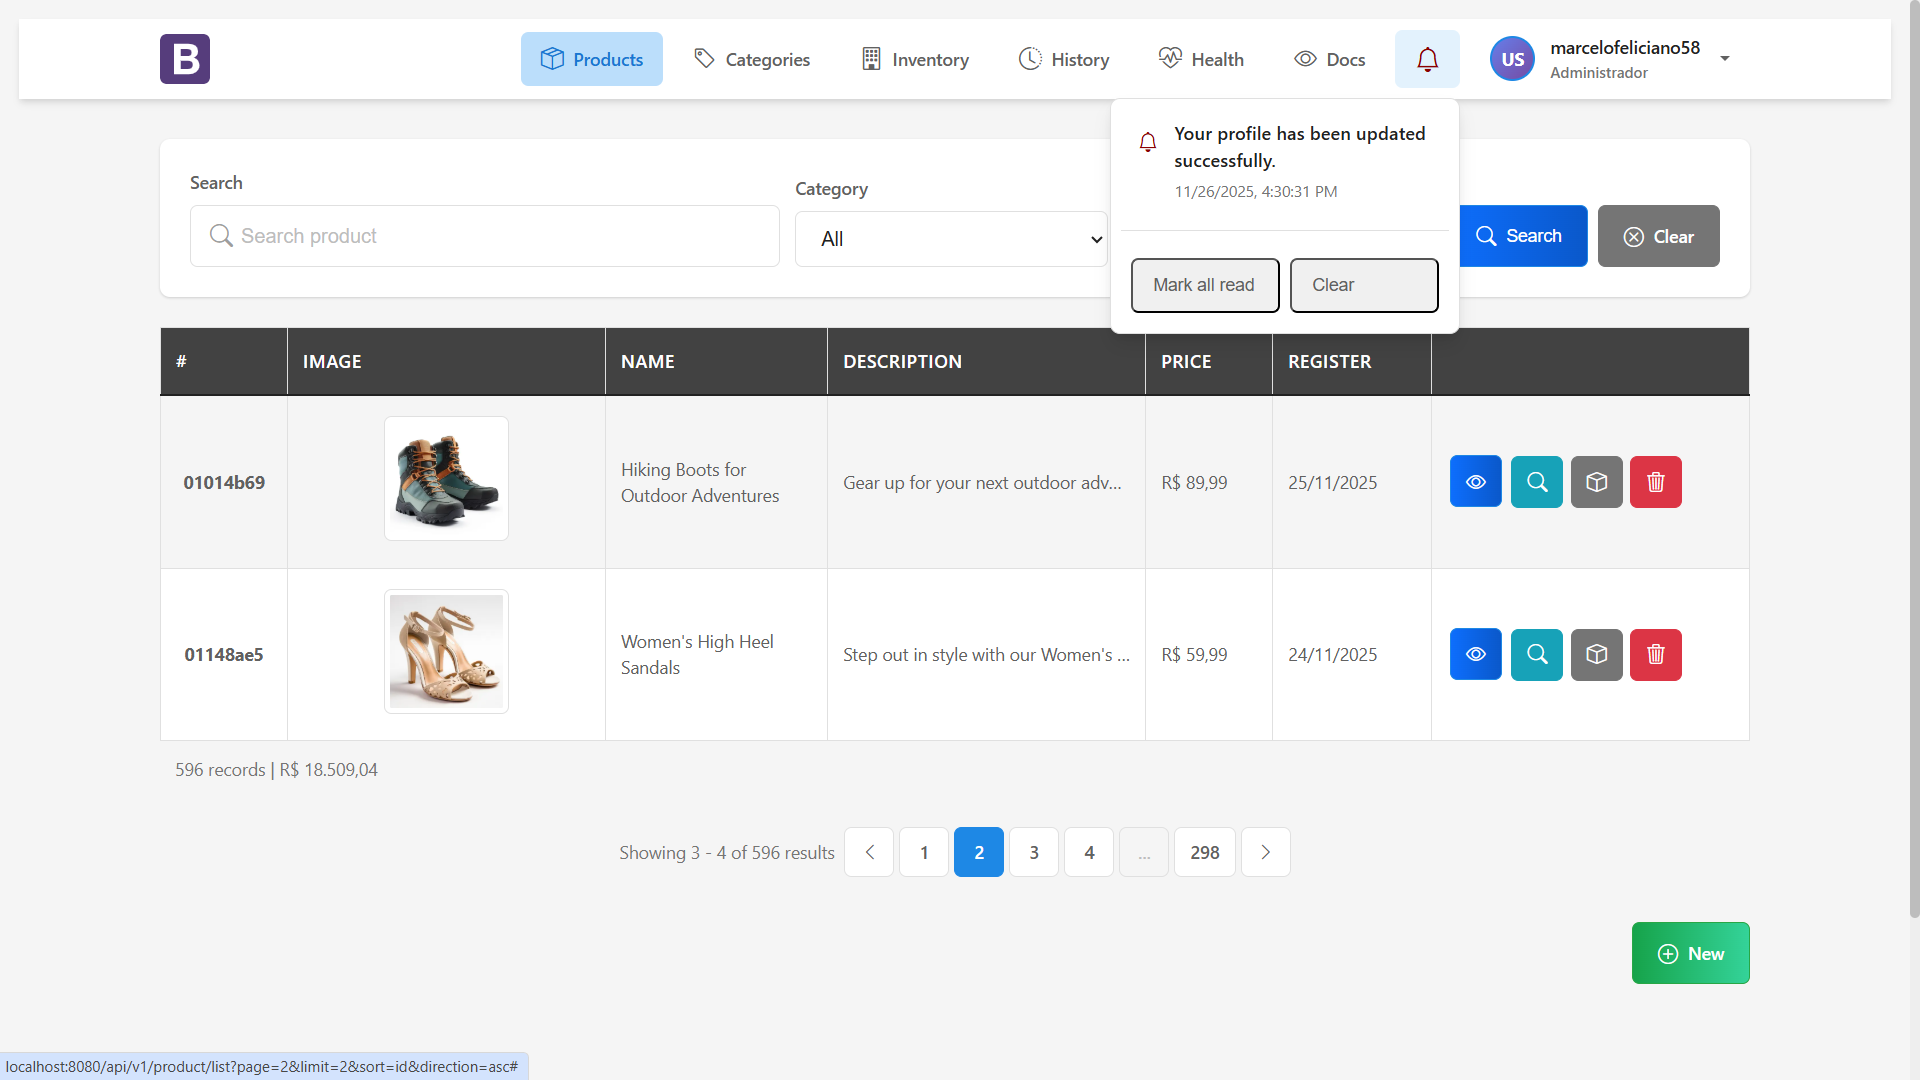
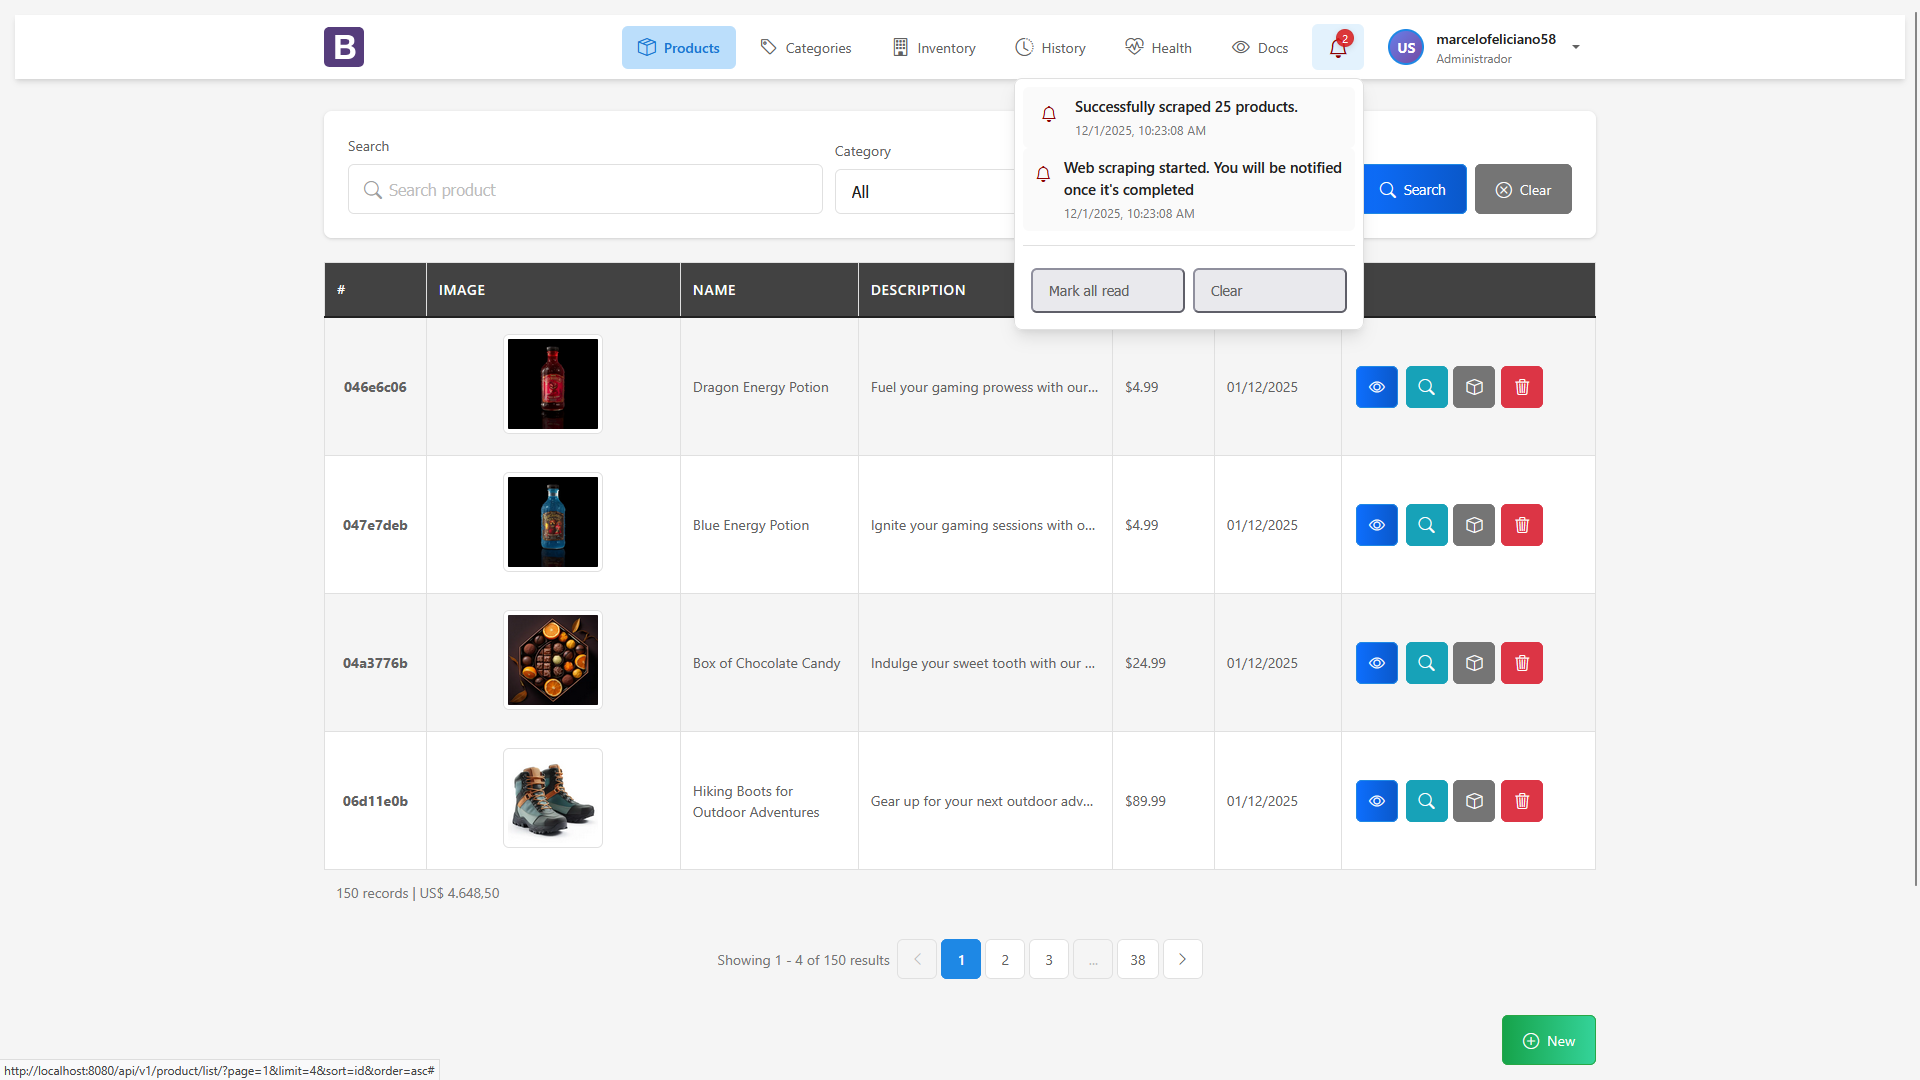
feat(product): update listing endpoint; enhance pagination and sorting

diff --git a/src/main/java/com/dev/servlet/web/controller/internal/ProductController.java b/src/main/java/com/dev/servlet/web/controller/internal/ProductController.java
@@ -1,11 +1,9 @@
 package com.dev.servlet.web.controller.internal;
 
-import com.dev.servlet.application.exception.ApplicationException;
 import com.dev.servlet.application.mapper.ProductMapper;
 import com.dev.servlet.application.port.in.category.ListCategoryUseCasePort;
 import com.dev.servlet.application.port.in.product.DeleteProductUseCasePort;
-import com.dev.servlet.application.port.in.product.ListProductUseCasePort;
-import com.dev.servlet.application.port.in.product.ProductCalculatePriceUseCasePort;
+import com.dev.servlet.application.port.in.product.ListProductContainerUseCasePort;
 import com.dev.servlet.application.port.in.product.ProductDetailUseCasePort;
 import com.dev.servlet.application.port.in.product.RegisterProductUseCasePort;
 import com.dev.servlet.application.port.in.product.ScrapeProductUseCasePort;
@@ -18,7 +16,6 @@ import com.dev.servlet.domain.entity.User;
 import com.dev.servlet.domain.valueobject.KeyPair;
 import com.dev.servlet.domain.valueobject.Query;
 import com.dev.servlet.infrastructure.persistence.transfer.IPageRequest;
-import com.dev.servlet.infrastructure.persistence.transfer.IPageable;
 import com.dev.servlet.web.controller.ProductControllerApi;
 import com.dev.servlet.web.controller.internal.base.BaseController;
 import com.dev.servlet.web.response.HttpResponse;
@@ -30,9 +27,7 @@ import lombok.NoArgsConstructor;
 import lombok.SneakyThrows;
 import lombok.extern.slf4j.Slf4j;
 
-import java.math.BigDecimal;
 import java.util.Collection;
-import java.util.HashSet;
 import java.util.Set;
 
 @Slf4j
@@ -41,8 +36,6 @@ import java.util.Set;
 public class ProductController extends BaseController implements ProductControllerApi {
     @Inject
     private ProductDetailUseCasePort productDetailUseCasePort;
-    @Inject
-    private ListProductUseCasePort listProductUseCasePort;
     @Inject
     private DeleteProductUseCasePort deleteProductUseCasePort;
     @Inject
@@ -54,7 +47,7 @@ public class ProductController extends BaseController implements ProductControll
     @Inject
     private ListCategoryUseCasePort listCategoryUseCasePort;
     @Inject
-    private ProductCalculatePriceUseCasePort productCalculatePriceUseCasePort;
+    private ListProductContainerUseCasePort listProductContainerUseCasePort;
     @Inject
     private ProductMapper productMapper;
 
@@ -85,13 +78,15 @@ public class ProductController extends BaseController implements ProductControll
     public IServletResponse search(Query query, IPageRequest pageRequest, String auth) {
         User user = authenticationPort.extractUser(auth);
         Product product = productMapper.queryToProduct(query, user);
-        return getServletResponse(pageRequest, auth, product);
+        Set<KeyPair> container = listProductContainerUseCasePort.assembleContainerResponse(pageRequest, auth, product);
+        return newServletResponse(container, forwardTo("listProducts"));
     }
 
     @SneakyThrows
     public IServletResponse list(IPageRequest pageRequest, String auth) {
         Product product = productMapper.toProduct(null, authenticationPort.extractUserId(auth));
-        return getServletResponse(pageRequest, auth, product);
+        Set<KeyPair> container = listProductContainerUseCasePort.assembleContainerResponse(pageRequest, auth, product);
+        return newServletResponse(container, forwardTo("listProducts"));
     }
 
     @SneakyThrows
@@ -116,21 +111,5 @@ public class ProductController extends BaseController implements ProductControll
     public IHttpResponse<Void> scrape(String auth, String environment, String url) {
         scrapeProductUseCasePort.scrapeAsync(url, environment, auth);
         return HttpResponse.<Void>next(redirectToCtx(LIST)).build();
-    }
-
-    private IServletResponse getServletResponse(IPageRequest pageRequest, String auth, Product product) throws ApplicationException {
-        pageRequest.setFilter(product);
-        IPageable<ProductResponse> page = listProductUseCasePort.getAllPageable(
-                pageRequest, productMapper::toResponseWithoutCategory);
-
-        BigDecimal price = productCalculatePriceUseCasePort.calculateTotalPriceFor(page, product);
-        Collection<CategoryResponse> categories = listCategoryUseCasePort.list(null, auth);
-        Set<KeyPair> container = new HashSet<>();
-
-        container.add(new KeyPair("pageable", page));
-        container.add(new KeyPair("totalPrice", price));
-        container.add(new KeyPair("categories", categories));
-
-        return newServletResponse(container, forwardTo("listProducts"));
     }
 }

diff --git a/src/main/java/com/dev/servlet/application/usecase/product/ListProductContainerUseCase.java b/src/main/java/com/dev/servlet/application/usecase/product/ListProductContainerUseCase.java
@@ -1,0 +1,53 @@
+package com.dev.servlet.application.usecase.product;
+
+import com.dev.servlet.application.exception.ApplicationException;
+import com.dev.servlet.application.mapper.ProductMapper;
+import com.dev.servlet.application.port.in.category.ListCategoryUseCasePort;
+import com.dev.servlet.application.port.in.product.ListProductContainerUseCasePort;
+import com.dev.servlet.application.port.in.product.ListProductUseCasePort;
+import com.dev.servlet.application.port.in.product.ProductCalculatePriceUseCasePort;
+import com.dev.servlet.application.transfer.response.CategoryResponse;
+import com.dev.servlet.application.transfer.response.ProductResponse;
+import com.dev.servlet.domain.entity.Product;
+import com.dev.servlet.domain.valueobject.KeyPair;
+import com.dev.servlet.infrastructure.persistence.transfer.IPageRequest;
+import com.dev.servlet.infrastructure.persistence.transfer.IPageable;
+import jakarta.enterprise.context.ApplicationScoped;
+import jakarta.inject.Inject;
+import lombok.NoArgsConstructor;
+import lombok.extern.slf4j.Slf4j;
+
+import java.math.BigDecimal;
+import java.util.Collection;
+import java.util.HashSet;
+import java.util.Set;
+
+@Slf4j
+@ApplicationScoped
+@NoArgsConstructor
+public class ListProductContainerUseCase implements ListProductContainerUseCasePort {
+
+    @Inject
+    private ListProductUseCasePort listProductUseCasePort;
+    @Inject
+    private ProductCalculatePriceUseCasePort productCalculatePriceUseCasePort;
+    @Inject
+    private ListCategoryUseCasePort listCategoryUseCasePort;
+    @Inject
+    private ProductMapper productMapper;
+
+    public Set<KeyPair> assembleContainerResponse(IPageRequest pageRequest, String auth, Product product) throws ApplicationException {
+        pageRequest.setFilter(product);
+        IPageable<ProductResponse> page = listProductUseCasePort.getAllPageable(
+                pageRequest, productMapper::toResponseWithoutCategory);
+
+        BigDecimal price = productCalculatePriceUseCasePort.calculateTotalPriceFor(page, product);
+        Collection<CategoryResponse> categories = listCategoryUseCasePort.list(null, auth);
+        Set<KeyPair> container = new HashSet<>();
+
+        container.add(new KeyPair("pageable", page));
+        container.add(new KeyPair("totalPrice", price));
+        container.add(new KeyPair("categories", categories));
+        return container;
+    }
+}

diff --git a/src/main/java/com/dev/servlet/application/usecase/user/UserDetailsUseCase.java b/src/main/java/com/dev/servlet/application/usecase/user/UserDetailsUseCase.java
@@ -3,10 +3,8 @@ package com.dev.servlet.application.usecase.user;
 import com.dev.servlet.application.exception.ApplicationException;
 import com.dev.servlet.application.mapper.UserMapper;
 import com.dev.servlet.application.port.in.user.UserDetailsUseCasePort;
-import com.dev.servlet.application.port.out.AuditPort;
 import com.dev.servlet.application.port.out.AuthenticationPort;
 import com.dev.servlet.application.transfer.response.UserResponse;
-import com.dev.servlet.infrastructure.audit.AuditPayload;
 import com.dev.servlet.infrastructure.cache.CacheUtils;
 import com.dev.servlet.infrastructure.persistence.repository.UserRepository;
 import jakarta.enterprise.context.ApplicationScoped;
@@ -28,8 +26,6 @@ public class UserDetailsUseCase implements UserDetailsUseCasePort {
     private UserMapper userMapper;
     @Inject
     private AuthenticationPort authenticationPort;
-    @Inject
-    private AuditPort auditPort;
 
     public UserResponse get(String userId, String auth) throws ApplicationException {
         log.debug("UserDetailsUseCase: getting user details with id {}", userId);
@@ -39,16 +35,12 @@ public class UserDetailsUseCase implements UserDetailsUseCasePort {
         }
 
         UserResponse response = CacheUtils.getObject(userId, CACHE_KEY);
-        if (response != null) {
-            auditPort.success("user:find_by_id", auth, new AuditPayload<>(userId, response));
-            return response;
-        }
+        if (response != null) return response;
 
         userRepository.findById(userId)
                 .ifPresent(u -> CacheUtils.setObject(userId, CACHE_KEY, userMapper.toResponse(u)));
 
         response = CacheUtils.getObject(userId, CACHE_KEY);
-        auditPort.success("user:find_by_id", auth, new AuditPayload<>(userId, response));
         return response;
     }
 }

diff --git a/src/main/java/com/dev/servlet/web/controller/internal/UserController.java b/src/main/java/com/dev/servlet/web/controller/internal/UserController.java
@@ -7,6 +7,7 @@ import com.dev.servlet.application.port.in.user.RegisterUserUseCasePort;
 import com.dev.servlet.application.port.in.user.ResendConfirmationUseCasePort;
 import com.dev.servlet.application.port.in.user.UpdateUserUseCasePort;
 import com.dev.servlet.application.port.in.user.UserDetailsUseCasePort;
+import com.dev.servlet.application.port.out.AuditPort;
 import com.dev.servlet.application.transfer.request.ConfirmEmailRequest;
 import com.dev.servlet.application.transfer.request.ResendConfirmationRequest;
 import com.dev.servlet.application.transfer.request.UserCreateRequest;
@@ -43,6 +44,8 @@ public class UserController extends BaseController implements UserControllerApi 
     private ResendConfirmationUseCasePort resendConfirmationUseCase;
     @Inject
     private UserDetailsUseCasePort userDetailsUseCase;
+    @Inject
+    private AuditPort auditPort;
 
     @SneakyThrows
     @Override
@@ -61,8 +64,14 @@ public class UserController extends BaseController implements UserControllerApi 
     @SneakyThrows
     @Override
     public IHttpResponse<UserResponse> findById(UserRequest user, String auth) {
-        UserResponse response = userDetailsUseCase.get(user.id(), auth);
-        return okHttpResponse(response, forwardTo("formListUser"));
+        try {
+            UserResponse response = userDetailsUseCase.get(user.id(), auth);
+            auditPort.success(response.getId(), auth, "User details accessed.");
+            return okHttpResponse(response, forwardTo("formListUser"));
+        } catch (Exception e) {
+            auditPort.failure(user.id(), auth, "Failed to access user details.");
+            throw e;
+        }
     }
 
     @SneakyThrows

diff --git a/src/main/java/com/dev/servlet/shared/util/URIUtils.java b/src/main/java/com/dev/servlet/shared/util/URIUtils.java
@@ -22,7 +22,7 @@ import java.util.stream.Collectors;
 @NoArgsConstructor(access = lombok.AccessLevel.PRIVATE)
 public final class URIUtils {
     private static final String DEFAULT_SORT_FIELD = "id";
-    private static final String DEFAULT_SORT_ORDER = "asc";
+    private static final String DEFAULT_SORT_ORDER = "desc";
     private static final int DEFAULT_MIN_PAGE_SIZE = 1;
     private static final int DEFAULT_INITIAL_PAGE = 1;
     private static final String PAGINATION_PAGE = "pagination.page";
@@ -97,7 +97,7 @@ public final class URIUtils {
         for (String param : query.split("&")) {
             String[] pair = param.split("=");
             if (pair.length == 2) {
-                queryParams.add(new KeyPair(pair[0], pair[DEFAULT_INITIAL_PAGE]));
+                queryParams.add(new KeyPair(pair[0], pair[1]));
             }
         }
         return queryParams;

diff --git a/src/main/java/com/dev/servlet/web/controller/internal/base/BaseController.java b/src/main/java/com/dev/servlet/web/controller/internal/base/BaseController.java
@@ -69,11 +69,6 @@ public abstract class BaseController extends BaseRouterController {
     protected IServletResponse newServletResponse(Set<KeyPair> response, String next) {
         return new IServletResponse() {
             @Override
-            public int statusCode() {
-                return 200;
-            }
-
-            @Override
             public Set<KeyPair> body() {
                 return response;
             }
@@ -81,11 +76,6 @@ public abstract class BaseController extends BaseRouterController {
             @Override
             public String next() {
                 return next;
-            }
-
-            @Override
-            public boolean json() {
-                return false;
             }
         };
     }

diff --git a/src/main/java/com/dev/servlet/web/response/IServletResponse.java b/src/main/java/com/dev/servlet/web/response/IServletResponse.java
@@ -17,6 +17,11 @@ public interface IServletResponse extends IHttpResponse<Set<KeyPair>> {
     }
 
     @Override
+    default int statusCode() {
+        return 200;
+    }
+
+    @Override
     default String error() {
         return null;
     }
@@ -24,5 +29,10 @@ public interface IServletResponse extends IHttpResponse<Set<KeyPair>> {
     @Override
     default String reasonText() {
         return null;
+    }
+
+    @Override
+    default boolean json() {
+        return false;
     }
 }

diff --git a/src/main/java/com/dev/servlet/application/port/in/product/ListProductContainerUseCasePort.java b/src/main/java/com/dev/servlet/application/port/in/product/ListProductContainerUseCasePort.java
@@ -1,0 +1,12 @@
+package com.dev.servlet.application.port.in.product;
+
+import com.dev.servlet.domain.entity.Product;
+import com.dev.servlet.domain.valueobject.KeyPair;
+import com.dev.servlet.infrastructure.persistence.transfer.IPageRequest;
+
+import java.util.Set;
+
+public interface ListProductContainerUseCasePort {
+
+    Set<KeyPair> assembleContainerResponse(IPageRequest pageRequest, String auth, Product product);
+}

diff --git a/README.md b/README.md
@@ -79,6 +79,19 @@ docker-compose -f docker-compose.demo.yml up -d
 
 Read the docker-compose file at `docker-compose.yml` to set up the PostgreSQL and ActiveMQ services.
 
+## Endpoints
+The application exposes some endpoints. Here are examples:
+- `POST /api/v1/auth/form` - Authenticate with username/password
+- `GET /api/v1/product/list` - List products
+- `POST /api/v1/health/live` - Liveness probe
+- `GET /api/v1/user/{id}` - Get user details
+
+The base URL is `http://localhost:8080` by default (local).
+
+Example of a complete url to list products: http://localhost:8080/api/v1/products
+
+If you want to see all available endpoints, check the Docs tab in the demo application UI or refer to the source code.
+
 ## License
 
 MIT — see the LICENSE file.
@@ -86,3 +99,12 @@ MIT — see the LICENSE file.
 ## Contributing
 
 Contributions are welcome. See CONTRIBUTING.md for guidelines.
+
+# Status Badges
+
+[//]: # ([![Build]&#40;https://github.com/m-feliciano/javaee-framework/actions/workflows/build.yml/badge.svg&#41;]&#40;...&#41;)
+[//]: # ([![Quality Gate]&#40;https://sonarcloud.io/api/project_badges/measure?project=m-feliciano_javaee-framework&metric=alert_status&#41;]&#40;...&#41;)
+![Java](https://img.shields.io/badge/Java-21-blue)
+![License](https://img.shields.io/badge/license-MIT-green)
+![Docker Pulls](https://img.shields.io/docker/pulls/mfeliciano1/servlets-app)
+[![Last Commit](https://img.shields.io/github/last-commit/m-feliciano/javaee-framework)](...)

diff --git a/README.pt-br.md b/README.pt-br.md
@@ -53,6 +53,20 @@ Clique [aqui](PREVIEW.md) para ver mais.
 
 Veja o README.md
 
+## Endpoints
+
+O framework expõe alguns endpoints. Aqui estão exemplos:
+- `POST /api/v1/auth/form` - Autenticar com usuário/senha
+- `GET /api/v1/product/list` - Listar produtos
+- `POST /api/v1/health/live` - Liveness probe
+- `GET /api/v1/user/{id}` - Obter detalhes do usuário
+
+A URL base é `http://localhost:8080` por padrão (local).
+
+Exemplo de uma URL completa para listar produtos: http://localhost:8080/api/v1/products
+
+Se você quiser ver todos os endpoints disponíveis, verifique a aba Docs na interface da aplicação de demonstração ou consulte o código-fonte.
+
 ## Licença
 
 MIT — ver arquivo LICENSE.
@@ -60,3 +74,11 @@ MIT — ver arquivo LICENSE.
 ## Contribuições
 
 Pull requests são bem-vindos. Guia em CONTRIBUTING.md
+
+
+## Status Badges
+
+![Java](https://img.shields.io/badge/Java-21-blue)
+![License](https://img.shields.io/badge/license-MIT-green)
+![Docker Pulls](https://img.shields.io/docker/pulls/mfeliciano1/servlets-app)
+[![Last Commit](https://img.shields.io/github/last-commit/m-feliciano/javaee-framework)](...)
